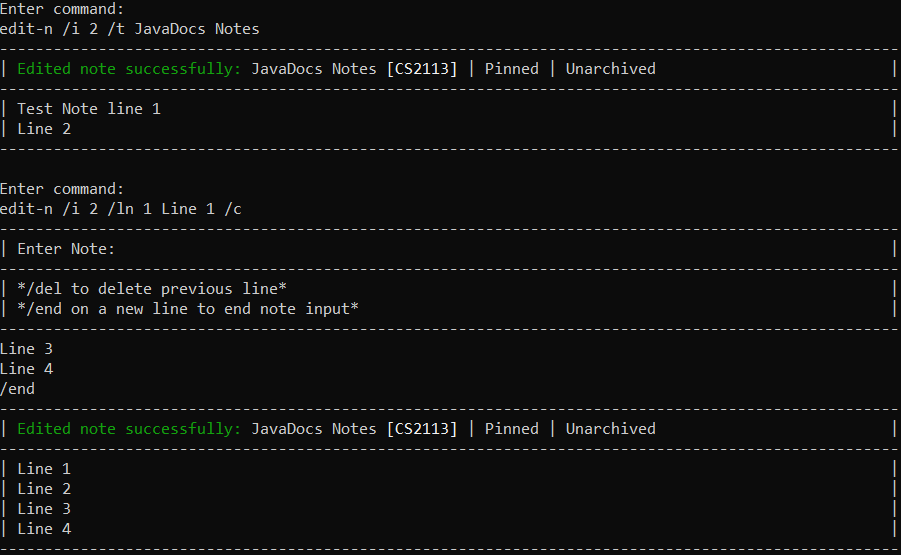
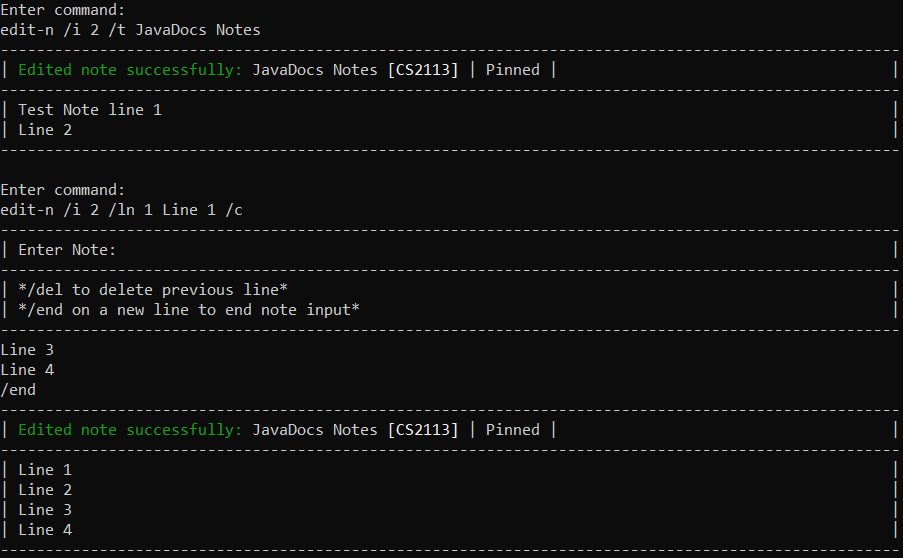
Update *suggestion by JX *updated required diagrams changes

diff --git a/src/main/java/seedu/notus/data/notebook/Note.java b/src/main/java/seedu/notus/data/notebook/Note.java
@@ -122,7 +122,7 @@ public class Note extends TaggableObject {
     }
 
     public String getIsArchivedString() {
-        return (isArchived ? "Archived" : "Unarchived");
+        return (isArchived ? "Archived" : "");
     }
 
     public void setArchived(boolean archived) {
